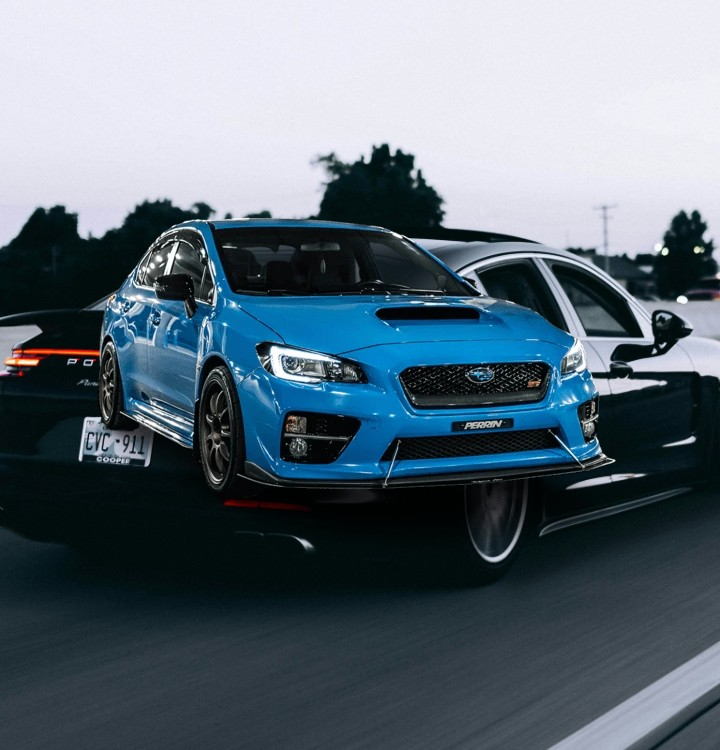
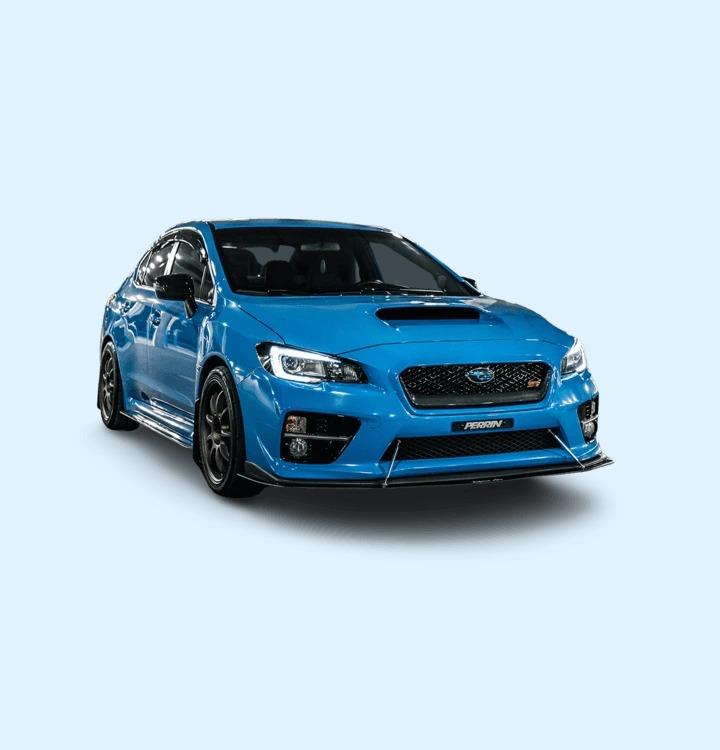
feat: simplify how-it-knows step visuals
- step 3 composite moves from the busy road photo to a solid Sky
  background (same color available in the tool)
- step 2 gets a stronger checkerboard so the transparent background
  reads clearly

Local only, pending user confirmation before push.

diff --git a/src/app/page.tsx b/src/app/page.tsx
@@ -30,6 +30,15 @@ import { FAQS, WHY_BULLETS } from "@/content/seo";
 
 const WHY_ICONS = [InfinityIcon, LogIn, BadgeCheck, ShieldCheck];
 
+/** #how 第二步专用:比 CHECKER_STYLE 更明显的方格底,突出"背景已透明" */
+const HOW_CHECKER_STYLE = {
+  backgroundImage:
+    "linear-gradient(45deg, hsl(var(--border)) 25%, transparent 25%), linear-gradient(-45deg, hsl(var(--border)) 25%, transparent 25%), linear-gradient(45deg, transparent 75%, hsl(var(--border)) 75%), linear-gradient(-45deg, transparent 75%, hsl(var(--border)) 75%)",
+  backgroundColor: "#ffffff",
+  backgroundSize: "28px 28px",
+  backgroundPosition: "0 0, 0 14px, 14px -14px, -14px 0px",
+};
+
 /** Hero 特性 pill:文案与原「Free · No signup · ...」逐字对应,只是加视觉容器 */
 const HERO_FEATURES = [
   { icon: Sparkles, label: "Free" },
@@ -248,7 +257,7 @@ export default function Home() {
                 <li key={step.label} className="text-center">
                   <figure
                     className="relative aspect-[24/25] overflow-hidden rounded-xl border border-border bg-secondary shadow-sm"
-                    style={step.checker ? CHECKER_STYLE : undefined}
+                    style={step.checker ? HOW_CHECKER_STYLE : undefined}
                   >
                     <Image
                       src={step.visual}
